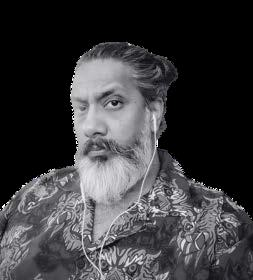
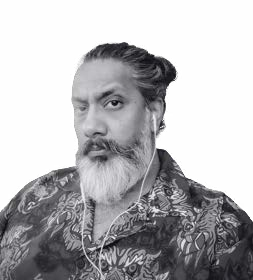
about fix

diff --git a/src/app/about/page.tsx b/src/app/about/page.tsx
@@ -4,7 +4,7 @@ import React from "react";
 import { FadeUp } from "@/components/Motion";
 import Image from "next/image";
 import Link from "next/link";
-import { ArrowRight, Users, Target, Eye, Globe, Award, Calendar, Sparkles, Mountain, Ship, Heart, Rocket } from "lucide-react";
+import { ArrowRight, Users, Target, Eye } from "lucide-react";
 
 // Static hexagonal background for about section
 function StaticHexagonalBackground() {
@@ -651,15 +651,14 @@ export default function About() {
             {/* Main Timeline Line */}
             <div className="absolute left-1/2 top-0 bottom-0 w-1 bg-gradient-to-b from-orange-500/20 via-orange-500/40 to-orange-500/20 -translate-x-1/2 hidden lg:block" />
             
-            {/* Timeline Items */}
-            <div className="space-y-24 lg:space-y-32">
+            {/* Timeline Items - Reduced spacing */}
+            <div className="space-y-16 lg:space-y-20">
               {[
                 {
                   year: "2009",
                   title: "The Birth",
                   description: "Lightgate was founded with a vision to revolutionize cultural entertainment.",
                   image: "/milestone-birth.jpg",
-                  icon: <Sparkles className="w-6 h-6" />,
                   align: "left"
                 },
                 {
@@ -667,7 +666,6 @@ export default function About() {
                   title: "Hiking & Outdoor Community",
                   description: "Established community-driven outdoor activities promoting healthy lifestyles and environmental awareness.",
                   image: "/milestone-hiking.jpg",
-                  icon: <Mountain className="w-6 h-6" />,
                   align: "right"
                 },
                 {
@@ -675,7 +673,6 @@ export default function About() {
                   title: "Peace Boat Hosting Event",
                   description: "Curated cultural exchange for 150+ international guests with Saudi folkloric performances and traditional crafts exhibition.",
                   image: "/milestone-peaceboat.jpg",
-                  icon: <Ship className="w-6 h-6" />,
                   align: "left"
                 },
                 {
@@ -683,7 +680,6 @@ export default function About() {
                   title: "CSR Programs",
                   description: "Launched comprehensive Corporate Social Responsibility initiatives focusing on community development.",
                   image: "/milestone-csr.jpg",
-                  icon: <Heart className="w-6 h-6" />,
                   align: "right"
                 },
                 {
@@ -691,7 +687,6 @@ export default function About() {
                   title: "Walk for a Cause",
                   description: "Community-driven initiative promoting social responsibility through organized walks and fundraising events.",
                   image: "/milestone-walk.jpg",
-                  icon: <Users className="w-6 h-6" />,
                   align: "left"
                 },
                 {
@@ -699,7 +694,6 @@ export default function About() {
                   title: "International Presence",
                   description: "Expanded operations to multiple countries, establishing Lightgate as an international cultural platform.",
                   image: "/milestone-international.jpg",
-                  icon: <Globe className="w-6 h-6" />,
                   align: "right"
                 },
                 {
@@ -707,7 +701,6 @@ export default function About() {
                   title: "SPAR Initiative",
                   description: "Saudi sports initiative redefining physical activity as a lifestyle through coast-to-coast events.",
                   image: "/milestone-spar.jpg",
-                  icon: <Rocket className="w-6 h-6" />,
                   align: "left"
                 }
               ].map((milestone, index) => (
@@ -721,48 +714,37 @@ export default function About() {
                     </div>
 
                     {/* Content Card */}
-                    <div className={`lg:w-5/12 mt-8 lg:mt-0 ${milestone.align === "left" ? "lg:pr-16 lg:text-right" : "lg:pl-16"}`}>
+                    <div className={`lg:w-5/12 mt-8 lg:mt-0 ${milestone.align === "left" ? "lg:pr-12 lg:text-right" : "lg:pl-12"}`}>
                       <div className="relative group">
                         <div className="absolute -inset-4 bg-gradient-to-br from-orange-500/10 to-transparent 
                                       rounded-2xl opacity-0 group-hover:opacity-100 
                                       transition-opacity duration-500 blur-xl" />
                         
-                        <div className="relative bg-white dark:bg-neutral-800 rounded-2xl p-8 
+                        <div className="relative bg-white dark:bg-neutral-800 rounded-2xl p-6 
                                       border border-gray-200 dark:border-neutral-700
                                       group-hover:border-orange-500/50
                                       group-hover:shadow-[0_0_30px_rgba(255,115,0,0.15)]
                                       transition-all duration-500">
                           
                           {/* Year Badge */}
-                          <div className={`mb-6 ${milestone.align === "left" ? "lg:flex lg:justify-end" : ""}`}>
-                            <span className={`inline-block px-4 py-2 rounded-full 
+                          <div className={`mb-4 ${milestone.align === "left" ? "lg:flex lg:justify-end" : ""}`}>
+                            <span className={`inline-block px-3 py-1.5 rounded-full 
                                           ${milestone.year === "Coming Soon" ? "bg-gradient-to-r from-orange-500 to-orange-600" : "bg-orange-500"} 
                                           text-white text-sm font-bold`}>
                               {milestone.year}
                             </span>
                           </div>
 
-                          {/* Icon */}
-                          <div className={`w-16 h-16 rounded-xl mb-6 
-                                        bg-gradient-to-br from-orange-500/20 to-orange-500/5
-                                        flex items-center justify-center
-                                        group-hover:from-orange-500/30 group-hover:to-orange-500/10
-                                        transition-all duration-500 ${milestone.align === "left" ? "lg:ml-auto" : ""}`}>
-                            <div className="text-orange-500">
-                              {milestone.icon}
-                            </div>
-                          </div>
-
-                          <h3 className="text-2xl font-bold mb-4 text-gray-800 dark:text-white">
+                          <h3 className="text-xl font-bold mb-3 text-gray-800 dark:text-white">
                             {milestone.title}
                           </h3>
                           
-                          <p className="text-gray-600 dark:text-gray-400">
+                          <p className="text-gray-600 dark:text-gray-400 text-sm mb-4">
                             {milestone.description}
                           </p>
 
                           {/* Image Preview */}
-                          <div className="mt-6 rounded-xl overflow-hidden h-48 relative bg-gray-100 dark:bg-neutral-700">
+                          <div className="rounded-xl overflow-hidden h-40 relative bg-gray-100 dark:bg-neutral-700">
                             <div className="absolute inset-0 flex items-center justify-center">
                               <div className="relative w-full h-full">
                                 <Image
@@ -779,8 +761,8 @@ export default function About() {
                                       parent.innerHTML = `
                                         <div class="flex items-center justify-center h-full w-full bg-gradient-to-br from-orange-500/10 to-orange-500/5">
                                           <div class="text-center">
-                                            <div class="text-4xl font-bold text-gray-300 mb-2">${milestone.year}</div>
-                                            <div class="text-lg text-gray-400">${milestone.title}</div>
+                                            <div class="text-3xl font-bold text-gray-300 mb-2">${milestone.year}</div>
+                                            <div class="text-md text-gray-400">${milestone.title}</div>
                                           </div>
                                         </div>
                                       `;
@@ -804,7 +786,7 @@ export default function About() {
         </div>
       </section>
 
-      {/* ================= CORE TEAM MEMBERS (9 members) ================= */}
+      {/* ================= CORE TEAM MEMBERS (9 members) - FIXED IMAGES ================= */}
       <section className="relative py-32 bg-white dark:bg-neutral-900">
         <div className="container mx-auto px-6">
           
@@ -879,39 +861,37 @@ export default function About() {
                                 group-hover:shadow-[0_0_30px_rgba(255,115,0,0.2)]
                                 transition-all duration-500">
                     
-                    {/* Team Member Photo with white background */}
-                    <div className="relative h-full w-full bg-white">
-                      <div className="absolute inset-0 flex items-center justify-center p-4 bg-white">
-                        <div className="relative w-full h-full max-w-[200px] mx-auto">
-                          <Image
-                            src={member.image}
-                            alt={member.name}
-                            fill
-                            className="object-contain"
-                            sizes="(max-width: 768px) 100vw, (max-width: 1200px) 50vw, 33vw"
-                            onError={(e) => {
-                              // Fallback to placeholder if image doesn't exist
-                              const target = e.target as HTMLImageElement;
-                              target.style.display = 'none';
-                              const container = target.parentElement?.parentElement;
-                              if (container) {
-                                container.innerHTML = `
-                                  <div class="flex flex-col items-center justify-center h-full w-full">
-                                    <div class="text-5xl font-bold text-gray-300 mb-4">
-                                      ${member.name.split(' ')[0].charAt(0)}
-                                    </div>
-                                    <div class="text-center">
-                                      <div class="text-lg font-semibold text-gray-800">${member.name.split(' ')[0]}</div>
-                                      <div class="text-sm text-gray-600">${member.role.split(' ')[0]}</div>
-                                    </div>
+                    {/* Team Member Photo - REMOVED white background */}
+                    <div className="relative h-full w-full">
+                      <div className="absolute inset-0">
+                        <Image
+                          src={member.image}
+                          alt={member.name}
+                          fill
+                          className="object-cover"
+                          sizes="(max-width: 768px) 100vw, (max-width: 1200px) 50vw, 33vw"
+                          onError={(e) => {
+                            // Fallback to placeholder if image doesn't exist
+                            const target = e.target as HTMLImageElement;
+                            target.style.display = 'none';
+                            const container = target.parentElement;
+                            if (container) {
+                              container.innerHTML = `
+                                <div class="flex flex-col items-center justify-center h-full w-full bg-gradient-to-br from-orange-500/10 to-orange-500/5">
+                                  <div class="text-5xl font-bold text-gray-300 mb-4">
+                                    ${member.name.split(' ')[0].charAt(0)}
                                   </div>
-                                `;
-                              }
-                            }}
-                          />
-                        </div>
+                                  <div class="text-center">
+                                    <div class="text-lg font-semibold text-gray-800">${member.name.split(' ')[0]}</div>
+                                    <div class="text-sm text-gray-600">${member.role.split(' ')[0]}</div>
+                                  </div>
+                                </div>
+                              `;
+                            }
+                          }}
+                        />
                       </div>
-                      <div className="absolute inset-0 bg-gradient-to-t from-black/20 via-transparent to-transparent" />
+                      <div className="absolute inset-0 bg-gradient-to-t from-black/40 via-transparent to-transparent" />
                     </div>
                     
                     {/* Hover overlay */}
@@ -978,7 +958,7 @@ export default function About() {
                   
                   <div className="flex flex-col items-center text-center">
                     {/* Profile image */}
-                    <div className="relative w-32 h-32 rounded-full mb-6 overflow-hidden bg-white">
+                    <div className="relative w-32 h-32 rounded-full mb-6 overflow-hidden">
                       <div className="relative w-full h-full">
                         <Image
                           src="/team-jassim.jpg"
@@ -1043,7 +1023,7 @@ export default function About() {
                   
                   <div className="flex flex-col items-center text-center">
                     {/* Profile image */}
-                    <div className="relative w-32 h-32 rounded-full mb-6 overflow-hidden bg-white">
+                    <div className="relative w-32 h-32 rounded-full mb-6 overflow-hidden">
                       <div className="relative w-full h-full">
                         <Image
                           src="/team-emad.jpg"
